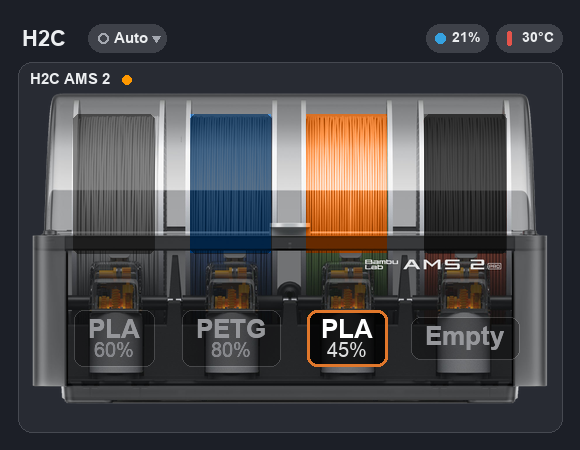
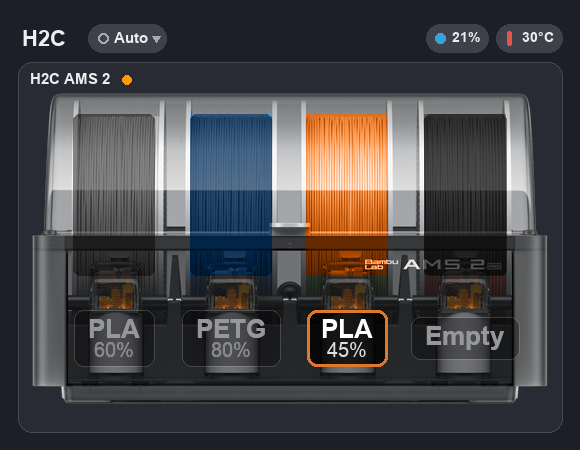
fix: extend recolour windows down to cover the feed area (no colour below mask)
- Strands continue below a glare line into the feed/connector area; windows
  stopped too high, leaking original base colour under the mask
- Regular AMS bottom 51%->59%; AMS 2 Pro 51%->58% (stays above the orange
  connectors so they aren't tinted); preview regenerated
- v0.5.1

diff --git a/better-ams-card.js b/better-ams-card.js
@@ -16,7 +16,7 @@
  * https://github.com/petergCA/better-ams-card
  */
 
-const VERSION = "0.5.0";
+const VERSION = "0.5.1";
 
 // Default location for the bundled artwork. Raw GitHub resolves on any install
 // with internet (HACS does not serve a plugin's extra files). Override with
@@ -36,10 +36,10 @@ const MODELS = {
     emptyMask: true,   // base art has a coloured spool in every bay → desaturate empties
     labelY: 78, bayX: [16.2, 38.7, 61.0, 83.7],
     windows: [
-      { x: 8.3, y: 7, w: 15.7, h: 44 },
-      { x: 30.8, y: 7, w: 15.7, h: 44 },
-      { x: 53.1, y: 7, w: 15.7, h: 44 },
-      { x: 75.9, y: 7, w: 15.7, h: 44 },
+      { x: 8.3, y: 7, w: 15.7, h: 51 },
+      { x: 30.8, y: 7, w: 15.7, h: 51 },
+      { x: 53.1, y: 7, w: 15.7, h: 51 },
+      { x: 75.9, y: 7, w: 15.7, h: 51 },
     ],
   },
   "ams": {
@@ -47,10 +47,10 @@ const MODELS = {
     emptyMask: true,   // high-res art with coloured backing → desaturate empties
     labelY: 79, bayX: [14.6, 37.6, 60.7, 83.6],
     windows: [
-      { x: 6.6, y: 7, w: 16, h: 44 },
-      { x: 29.7, y: 7, w: 16, h: 44 },
-      { x: 52.8, y: 7, w: 16, h: 44 },
-      { x: 75.6, y: 7, w: 16, h: 44 },
+      { x: 6.6, y: 7, w: 16, h: 52 },
+      { x: 29.7, y: 7, w: 16, h: 52 },
+      { x: 52.8, y: 7, w: 16, h: 52 },
+      { x: 75.6, y: 7, w: 16, h: 52 },
     ],
   },
   "ams ht": {

diff --git a/scripts/make_preview.py b/scripts/make_preview.py
@@ -44,7 +44,7 @@ def desaturate(img, box, dark=0.0):
             L = int(lum(r, g, b) * (1 - dark)); px[x, y] = (L, L, L, a)
 
 # Calibrated filament windows (must match MODELS["ams 2 pro"].windows in the card)
-WINS = [(8.3, 7, 15.7, 44), (30.8, 7, 15.7, 44), (53.1, 7, 15.7, 44), (75.9, 7, 15.7, 44)]
+WINS = [(8.3, 7, 15.7, 51), (30.8, 7, 15.7, 51), (53.1, 7, 15.7, 51), (75.9, 7, 15.7, 51)]
 BAYX = [16.2, 38.7, 61.0, 83.7]  # label centres on the spool/feeder bays
 LABEL_Y = 0.78
 SLOTS = [